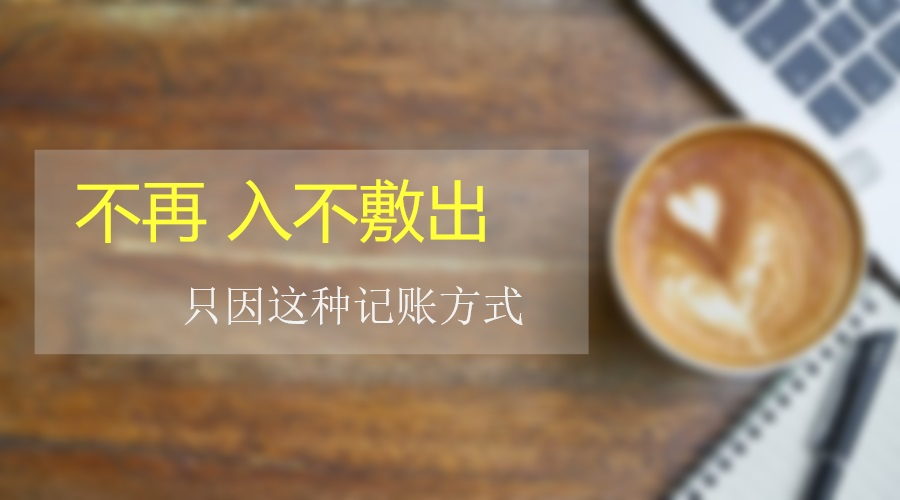
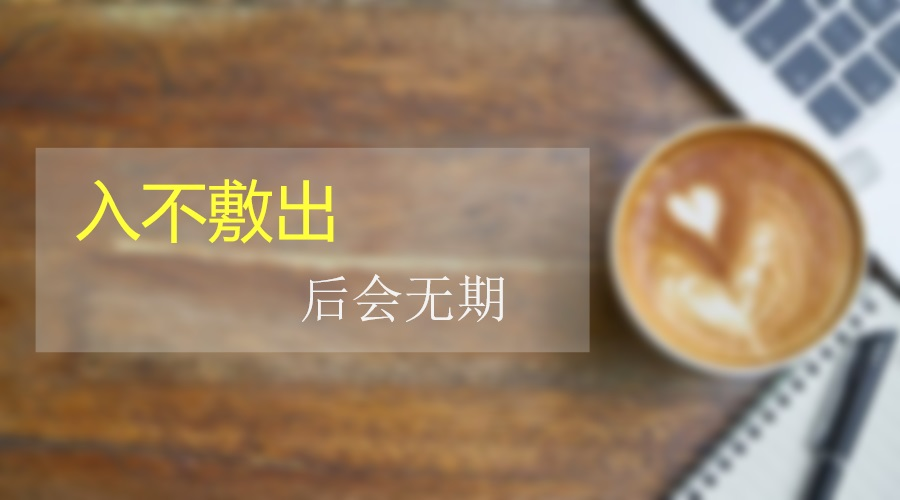
Site updated: 2020-08-14 00:18:01

diff --git a/2020-08-11-good-money/index.html b/2020-08-11-good-money/index.html
@@ -20,16 +20,16 @@
     var CONFIG = {"hostname":"www.lixiaofei.cn","root":"/","scheme":"Mist","version":"7.8.0","exturl":false,"sidebar":{"position":"left","display":"post","padding":18,"offset":12,"onmobile":false},"copycode":{"enable":false,"show_result":false,"style":null},"back2top":{"enable":true,"sidebar":false,"scrollpercent":false},"bookmark":{"enable":false,"color":"#222","save":"auto"},"fancybox":false,"mediumzoom":false,"lazyload":false,"pangu":false,"comments":{"style":"tabs","active":true,"storage":true,"lazyload":true,"nav":{"valine":{"order":-1}}},"algolia":{"hits":{"per_page":10},"labels":{"input_placeholder":"Search for Posts","hits_empty":"We didn't find any results for the search: ${query}","hits_stats":"${hits} results found in ${time} ms"}},"localsearch":{"enable":false,"trigger":"auto","top_n_per_article":1,"unescape":false,"preload":false},"motion":{"enable":true,"async":false,"transition":{"post_block":"fadeIn","post_header":"slideDownIn","post_body":"slideDownIn","coll_header":"slideLeftIn","sidebar":"slideUpIn"}}};
   </script>
 
-  <meta name="description" content="钱，是最重要的生活资源，为了挣钱，我们整天忙忙碌碌，不肯停歇。在很长一段时间里，我总是入不敷出，每个月得靠信用卡、白条、花呗度日，现在这种情况不复存在了，仅因为一种记账方式，分享下我的薪路历程。">
+  <meta name="description" content="钱，是最重要的生活资源，为了挣钱，我们整天忙忙碌碌，不肯停歇。 在很长一段时间里，我总是入不敷出，每个月得靠信用卡、白条、花呗度日，现在这种情况不复存在了，仅因为一种记账方式，分享下我的薪路历程。">
 <meta property="og:type" content="article">
 <meta property="og:title" content="再见 入不敷出">
 <meta property="og:url" content="http://www.lixiaofei.cn/2020-08-11-good-money/index.html">
 <meta property="og:site_name" content="管窥程序">
-<meta property="og:description" content="钱，是最重要的生活资源，为了挣钱，我们整天忙忙碌碌，不肯停歇。在很长一段时间里，我总是入不敷出，每个月得靠信用卡、白条、花呗度日，现在这种情况不复存在了，仅因为一种记账方式，分享下我的薪路历程。">
+<meta property="og:description" content="钱，是最重要的生活资源，为了挣钱，我们整天忙忙碌碌，不肯停歇。 在很长一段时间里，我总是入不敷出，每个月得靠信用卡、白条、花呗度日，现在这种情况不复存在了，仅因为一种记账方式，分享下我的薪路历程。">
 <meta property="og:locale" content="zh_CN">
 <meta property="og:image" content="http://www.lixiaofei.cn/images/2020/08/money/01.jpg">
 <meta property="article:published_time" content="2020-08-13T11:16:36.000Z">
-<meta property="article:modified_time" content="2020-08-13T11:49:59.037Z">
+<meta property="article:modified_time" content="2020-08-13T15:54:00.948Z">
 <meta property="article:author" content="太阳雪">
 <meta property="article:tag" content="理财">
 <meta property="article:tag" content="思维">
@@ -197,7 +197,7 @@
               <span class="post-meta-item-text">发表于</span>
               
 
-              <time title="创建时间：2020-08-13 19:16:36 / 修改时间：19:49:59" itemprop="dateCreated datePublished" datetime="2020-08-13T19:16:36+08:00">2020-08-13</time>
+              <time title="创建时间：2020-08-13 19:16:36 / 修改时间：23:54:00" itemprop="dateCreated datePublished" datetime="2020-08-13T19:16:36+08:00">2020-08-13</time>
             </span>
             <span class="post-meta-item">
               <span class="post-meta-item-icon">
@@ -241,24 +241,28 @@
     <div class="post-body" itemprop="articleBody">
 
       
-        <p>钱，是最重要的生活资源，为了挣钱，我们整天忙忙碌碌，不肯停歇。在很长一段时间里，我总是入不敷出，每个月得靠信用卡、白条、花呗度日，现在这种情况不复存在了，仅因为一种记账方式，分享下我的薪路历程。<br><a id="more"></a></p>
+        <p>钱，是最重要的生活资源，为了挣钱，我们整天忙忙碌碌，不肯停歇。</p>
+<p>在很长一段时间里，我总是入不敷出，每个月得靠信用卡、白条、花呗度日，现在这种情况不复存在了，仅因为一种记账方式，分享下我的薪路历程。<br><a id="more"></a></p>
 <h2 id="记账历程"><a href="#记账历程" class="headerlink" title="记账历程"></a>记账历程</h2><p>早就知道，记账是理财的第一步，但总是坚持不了</p>
 <p>最开始，记在小本上，方便灵活，但统计麻烦，没多久便放弃了</p>
-<p>后来，用 Excel，调整和统计很方便，但花销细节太多，记录太琐碎，又放弃了</p>
-<p>再后来，因为买房，借了很多债，迫于压力，不得不再记账，汲取前面教训，开发了一个 Web App，记录倒是方便了，但解决不了不同账号的转账，就算费劲记了，不知道该是收入还是消费，也没法归置</p>
-<p>为了解决转账问题，开始用记账 APP，如 挖财、随手记，转账问题解决了，但还是要处理很多消费细节，而且有一定的学习成本，最后总也弄不清，超支了还是结余了，终放弃</p>
-<h2 id="你不理财财不理你"><a href="#你不理财财不理你" class="headerlink" title="你不理财财不理你"></a>你不理财财不理你</h2><p>虽然经历了诸多失败，还是财还是要理</p>
-<p>有一天看到这句话：</p>
+<p>后来，在 Excel 中记，调整和统计方便了，但花销细节太多，记录太琐碎，也放弃了</p>
+<p>再后来，迫于负债压力，不得不再次记账，结合之前记账问题，开发了一个 Web App，记录倒是方便了，但不同账号间转账，不太好记，不知道该归为收入还是消费</p>
+<p>为了解决转账问题，开始用记账 APP，用过 挖财、随手记等，转账问题解决了，但还是要处理很多细节，最后总也弄不清，超支了还是结余了，最终放弃</p>
+<h2 id="你不理财财不理你"><a href="#你不理财财不理你" class="headerlink" title="你不理财财不理你"></a>你不理财财不理你</h2><p>虽然经历了诸多失败，财还是要理</p>
+<p>有一天看到一句话：</p>
 <blockquote>
 <p><strong>记账的目的是搞清最低花费</strong></p>
 </blockquote>
-<p>彻底改变了我对记账的认知</p>
-<p>以往的记账，并非工具问题，而是目的不对，只是被动的记，没有明确的目的，势必会放弃</p>
-<p>有了这个认知，动力足了，哪怕一张纸，都是好工具</p>
-<p>三个月后（一个月的太短，无法涵盖更多情况），终于搞清楚我的最低消费了</p>
-<p>再做月度计划，靠谱多了</p>
+<p>这句话彻底改变了我对记账的认知</p>
+<p>以往的记账，没有明确目的，只是被动的记</p>
+<blockquote>
+<p>目的不明确，势必会放弃</p>
+</blockquote>
+<p>现在，动力足了，哪怕一张纸，都是好工具</p>
+<p>三个月后，终于搞清楚了我的最低消费</p>
+<p>再做月度计划，靠谱多了，将花费分为几大类</p>
 <ul>
-<li><p>固定项目，比如房贷、学费、物业费、水电燃气费等</p>
+<li><p>固定费用，比如房贷、学费、物业费、水电燃气费等</p>
 </li>
 <li><p>动态消费，比如礼物、礼金、请客等，属于计划的一部分，但需要当月支出</p>
 </li>
@@ -267,40 +271,42 @@
 <li><p>备用，一种是应急储备，以防突发事件，另一种是长期储备，即储蓄</p>
 </li>
 </ul>
-<p>规划了消费，细琐支出就不用记了，节省时间和精力</p>
-<p>对于没计划的大额支出，如报个课外班，参加个学习培训什么的，还是要记的，以便修正最低消费，或者调整备用金额度</p>
-<blockquote>
-<p>方向对了，运气便不会差</p>
-</blockquote>
-<h2 id="实操"><a href="#实操" class="headerlink" title="实操"></a>实操</h2><p>经过将近一年的摸索，我总结出了一个 Excel 记账模板，每月只需十分钟，规划，便可轻松搞定</p>
-<p>假设月收入 10300，做了些支出假设，记录如下:</p>
+<p>有了规划，不必记录每笔消费，省时省力</p>
+<p>但对没计划的大额支出，还是要记的，如报个课外班，参加个学习培训什么的</p>
+<p>以便修正最低消费，或者调整备用金额度</p>
+<h2 id="实操"><a href="#实操" class="headerlink" title="实操"></a>实操</h2><p>经过将近一年的摸索，我总结出了一个 Excel 记账模板，每月只需十分钟，月度规划便可轻松搞定</p>
+<p>假设月收入 10300，且做了假设支出，用模板，记录如下:</p>
 <p><img src="/images/2020/08/money/01.jpg" alt="记账模板"></p>
-<p>模板大体由三部分组成：</p>
+<p>模板大体由四部分组成：</p>
 <ul>
-<li><p>最左侧为支出，填写支出项目，费用，和去向，去向就是账户，比如还房贷的钱，存入支付宝，可以自动还款</p>
+<li><p>支出统计，在最左侧，填写支出的项目、费用 和 去向，去向就是账户，比如还房贷的钱，存入支付宝等</p>
 </li>
-<li><p>中间部分是收入统计，记录每个账户的入账和余额，以及统计支出中的费用，计算出调账金额</p>
+<li><p>收入汇总，在中间，记录每个账户的入账和余额，以及统计支出中的费用，计算出调账金额</p>
 </li>
-<li><p>最右侧是根据账户的调整情况计算出来的具体调账方式，一般都是从工资卡向往转出，用 <code>是否调账</code> 来标记是否执行了调账</p>
+<li><p>调账方案，在最右侧,是根据账户的调整情况计算出来的具体调账方式，一般都是从工资卡向往转出，用 <code>是否调账</code> 来标记是否执行了调账</p>
 </li>
-<li><p>中间最上面是统计，以及指示，当收入大于支出时，预计结余就会是整数，且背景为绿色，相反，背景为红色。</p>
+<li><p>指示器，在中间最上面，当收入大于支出时，<code>预计结余</code> 就会是正数，且背景为绿色，相反，背景为红色。</p>
 </li>
 </ul>
 <p>这个 Excel 模板包含一些公式，只要调整花费，修改收入，其他都可自动计算，然后根据 <code>调账方案</code> 转账即可</p>
 <p>如果 <code>预计结余</code> 背景为红色，说明透支了，就需要调整支出，一般也只能扣除零花钱了:(</p>
-<h2 id="效果如何"><a href="#效果如何" class="headerlink" title="效果如何"></a>效果如何</h2><p>节省了大量记账时间和精力，避免了每天算账的焦虑</p>
-<p>也不用担心超支，每笔零用钱，都会有通知，看下余额就知道怎么办了</p>
-<p>每月结余一清二楚，转入储蓄账户，强制自己节省</p>
-<p>就这样，限制了无度消费，帮助我顺利的度过财务危机，不仅没影响生活质量，还让我走出入不敷出的状态</p>
+<h2 id="效果如何"><a href="#效果如何" class="headerlink" title="效果如何"></a>效果如何</h2><p>节省了大量记账时间和精力，避免了每天记录每笔账的焦虑</p>
+<p>也不用担心超支，每笔花销，都会有通知（银行短信），看下余额就知道后面该咋花了</p>
+<p>每月结余一清二楚，转入储蓄账户，强制自己储蓄</p>
+<p>就这样，限制了无度消费，积攒了储蓄，帮助我顺利的度过财务危机，不仅没影响生活质量，还让我走出入不敷出的状态</p>
+<blockquote>
+<p>方向对了，运气便不会差</p>
+</blockquote>
 <p>一些心得、技巧</p>
 <ul>
-<li>零用钱放在银行卡上，而不是支付宝或者微信里，因为无论支付方式是什么，都可以从银行卡支出，而且提现更容易</li>
+<li>零用钱放在银行卡上，而不是支付宝或者微信里，因为无论支付方式是什么，都可以从银行卡支出，而且提现更方便</li>
 <li>日常固定和零用钱分开，以免被预支</li>
-<li>将大笔的固定支出放在余额宝中，并设置自动还款，理财产品直接在支付宝上买，会自动扣款，另外可享受一定收益</li>
-<li>不建议使用白条、花呗、信用卡等方式支付，容易造成超支情况，<strong>切记：理财前，先还清，且不用</strong></li>
+<li>将大笔的固定支出，放在余额宝中，并设置自动还款，另外理财产品直接在支付宝上买，扣款方便，还可有些收益</li>
+<li>不建议使用白条、花呗、信用卡等方式支付，容易造成超支，<strong>切记：还清借款，且不再用</strong></li>
 <li>不要贪小便宜，比如零用钱存入余额宝，看似有收益，实则增加透支风险</li>
 </ul>
-<h2 id="总结"><a href="#总结" class="headerlink" title="总结"></a>总结</h2><p>很多事情，想起来麻烦，但做下去并不复杂，重要的是自己的认知，如果认识不到，再好的技巧和方法也没有用，认识到了，不但能帮助自己，而且还可以探索出适合自己的方式<br>以上方式，目前仅适合我，也帮助我将自己的财务梳理好，但每个人的情况不同，这种方法不能都适合，仅做参考<br>你有什么样的理财方式呢？欢迎留言、私信，一起交流探讨</p>
+<h2 id="总结"><a href="#总结" class="headerlink" title="总结"></a>总结</h2><p>很多事情不在于技巧或者方法，而在于你对它的认知，认知对了方向就对了，你的努力便有了价值。</p>
+<p>你的理财方式是什么呢？对理财有哪些认知呢？欢迎留言，一起交流探讨</p>
 <p>关注我，回复关键字【<strong>记账</strong>】，获取记账模板</p>
 
     </div>

diff --git a/index.html b/index.html
@@ -191,7 +191,7 @@
               <span class="post-meta-item-text">发表于</span>
               
 
-              <time title="创建时间：2020-08-13 19:16:36 / 修改时间：19:49:59" itemprop="dateCreated datePublished" datetime="2020-08-13T19:16:36+08:00">2020-08-13</time>
+              <time title="创建时间：2020-08-13 19:16:36 / 修改时间：23:54:00" itemprop="dateCreated datePublished" datetime="2020-08-13T19:16:36+08:00">2020-08-13</time>
             </span>
             <span class="post-meta-item">
               <span class="post-meta-item-icon">
@@ -235,7 +235,8 @@
     <div class="post-body" itemprop="articleBody">
 
       
-          <p>钱，是最重要的生活资源，为了挣钱，我们整天忙忙碌碌，不肯停歇。在很长一段时间里，我总是入不敷出，每个月得靠信用卡、白条、花呗度日，现在这种情况不复存在了，仅因为一种记账方式，分享下我的薪路历程。<br>
+          <p>钱，是最重要的生活资源，为了挣钱，我们整天忙忙碌碌，不肯停歇。</p>
+<p>在很长一段时间里，我总是入不敷出，每个月得靠信用卡、白条、花呗度日，现在这种情况不复存在了，仅因为一种记账方式，分享下我的薪路历程。<br>
           <!--noindex-->
             <div class="post-button">
               <a class="btn" href="/2020-08-11-good-money/#more" rel="contents">
